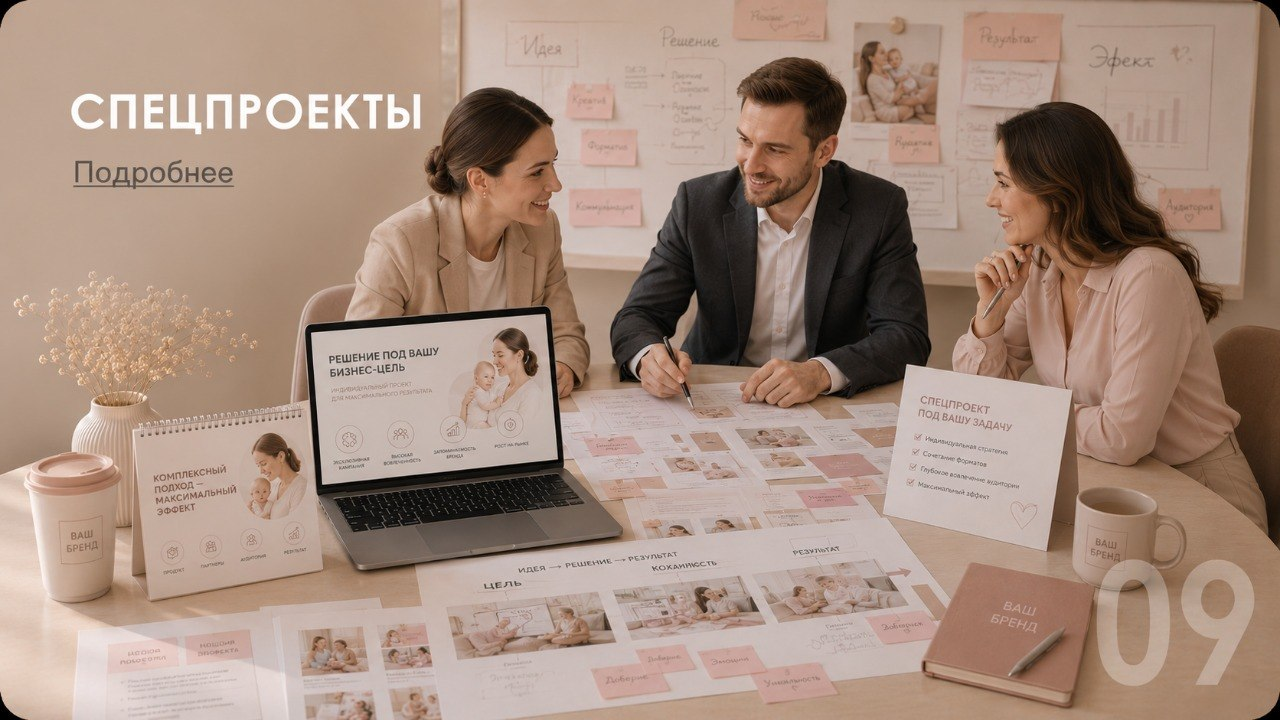
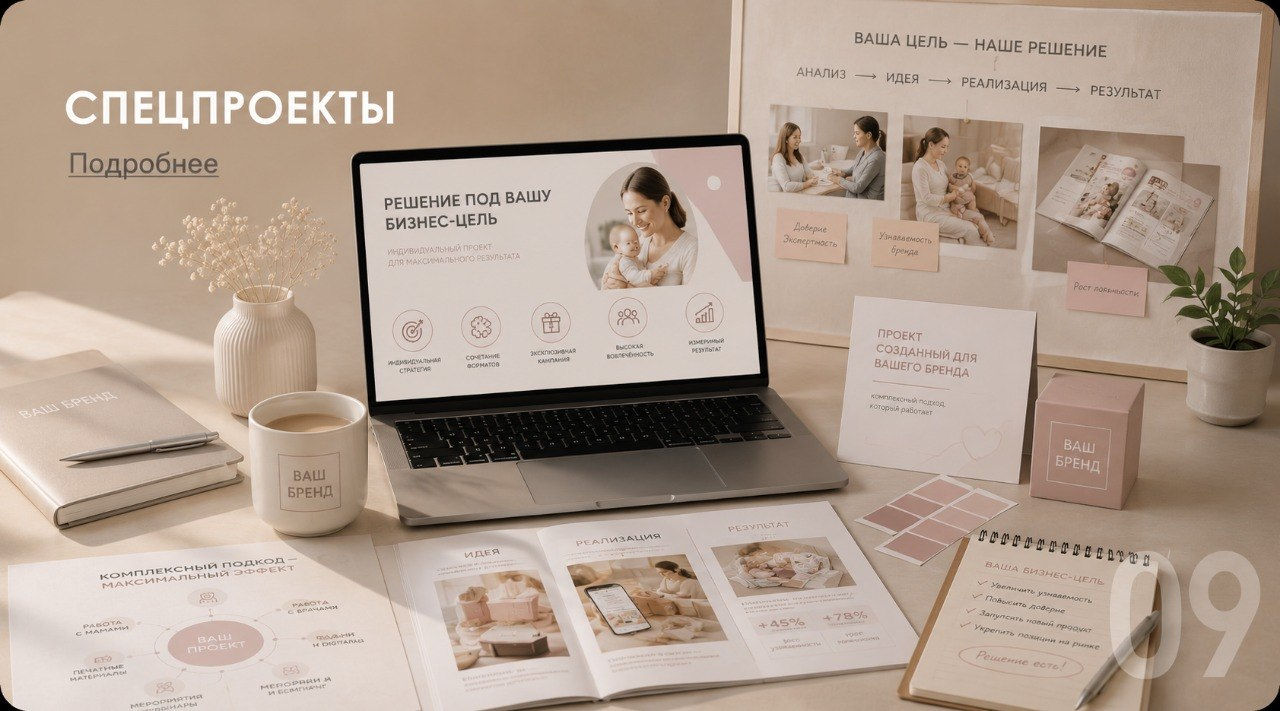
Use the Specproekty desk photo in the service-9 modal.

diff --git a/index.html b/index.html
@@ -192,7 +192,7 @@
             </div>
           </button>
           <button type="button" class="service-card service-card--span" data-detail-open="service-9">
-            <img src="assets/services/09-special.png?v=20260812d" width="1280" height="720" alt="">
+            <img src="assets/services/09-special.png?v=20260812e" width="1280" height="720" alt="">
             <div class="service-card__body">
               <p class="service-card__title">Спецпроекты</p>
               <span class="service-card__more">Подробнее</span>
@@ -811,7 +811,7 @@
           <p class="detail-modal__tagline is-rose">«Всё под одну задачу»</p>
           <p>Под вашу бизнес-цель создаётся индивидуальный проект, где сочетаются любые форматы взаимодействия с мамами и врачами. Комплексный подход даёт максимальный эффект: эксклюзивная кампания, высокая вовлечённость аудитории и запоминаемость вашего бренда на рынке.</p>
         </div>
-        <img class="detail-modal__media" src="assets/services/detail-special.png?v=20260812c" width="480" height="360" alt="Спецпроекты ROMART">
+        <img class="detail-modal__media" src="assets/services/detail-special.png?v=20260812e" width="480" height="360" alt="Спецпроекты ROMART">
       </div>
     </div>
   </div>
